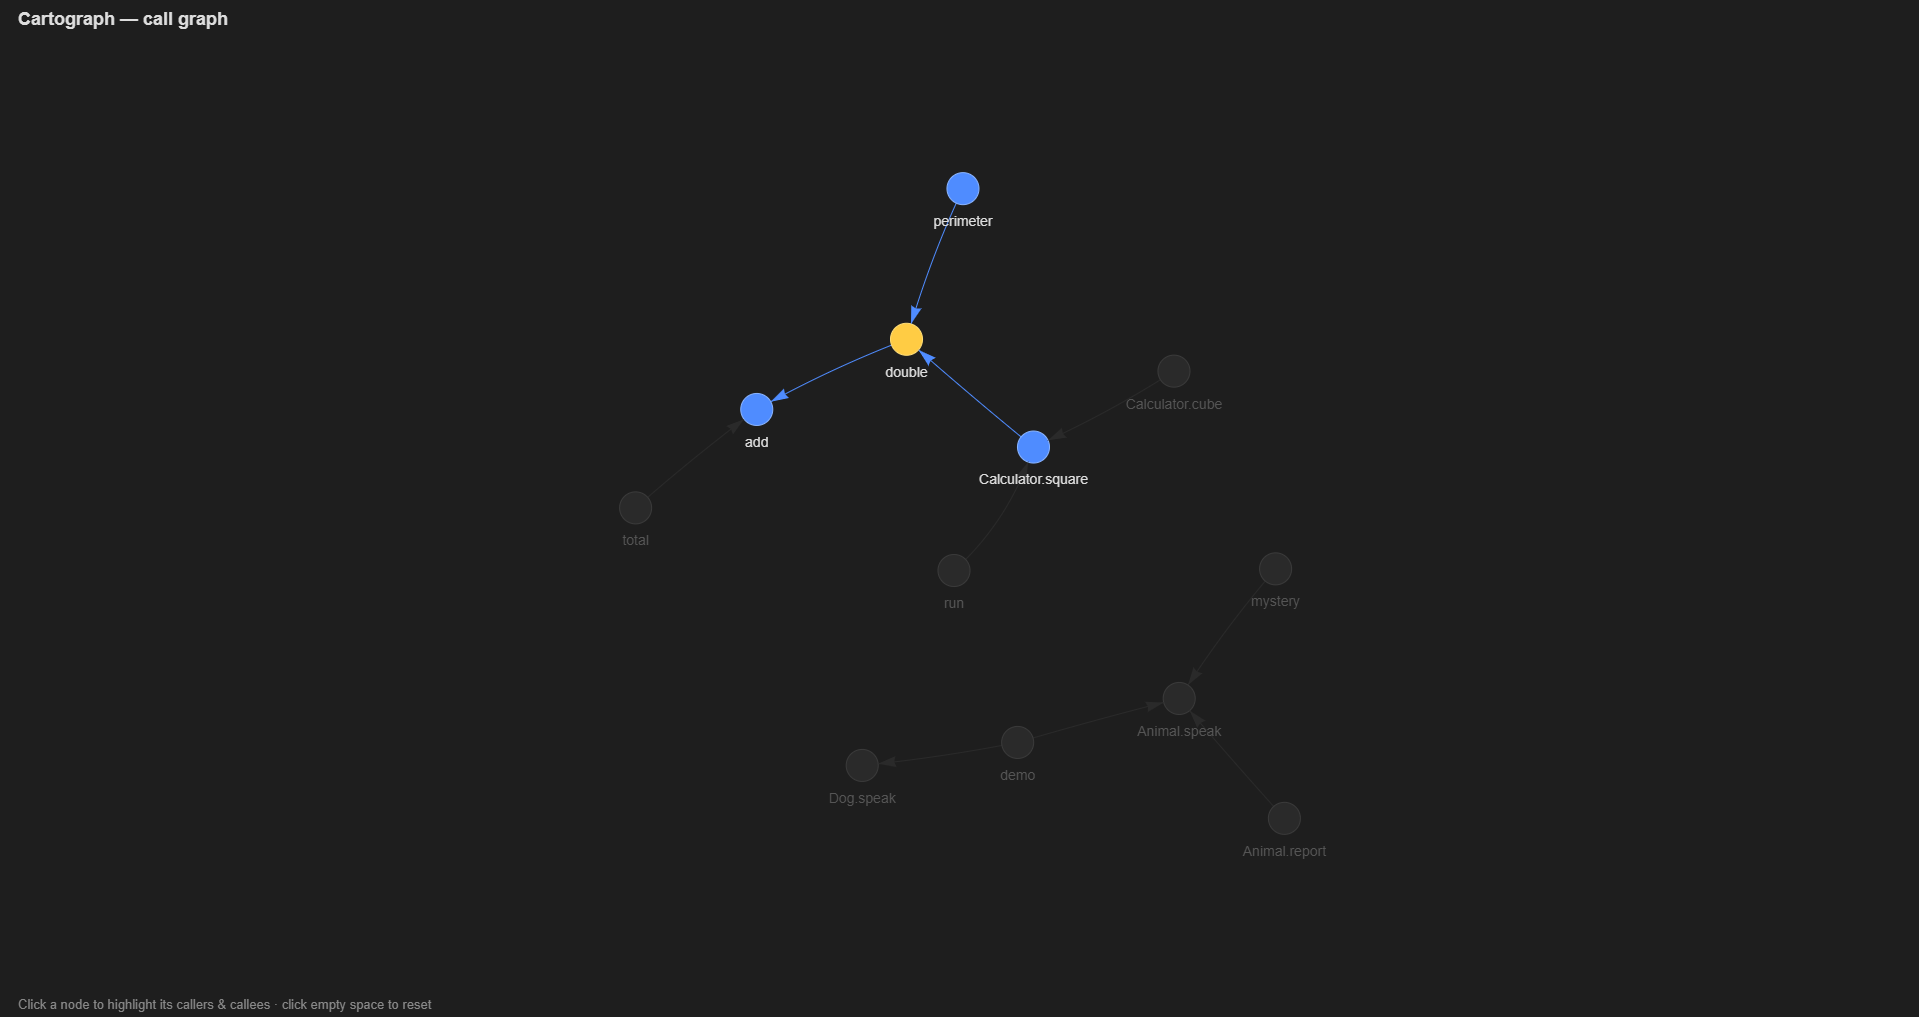
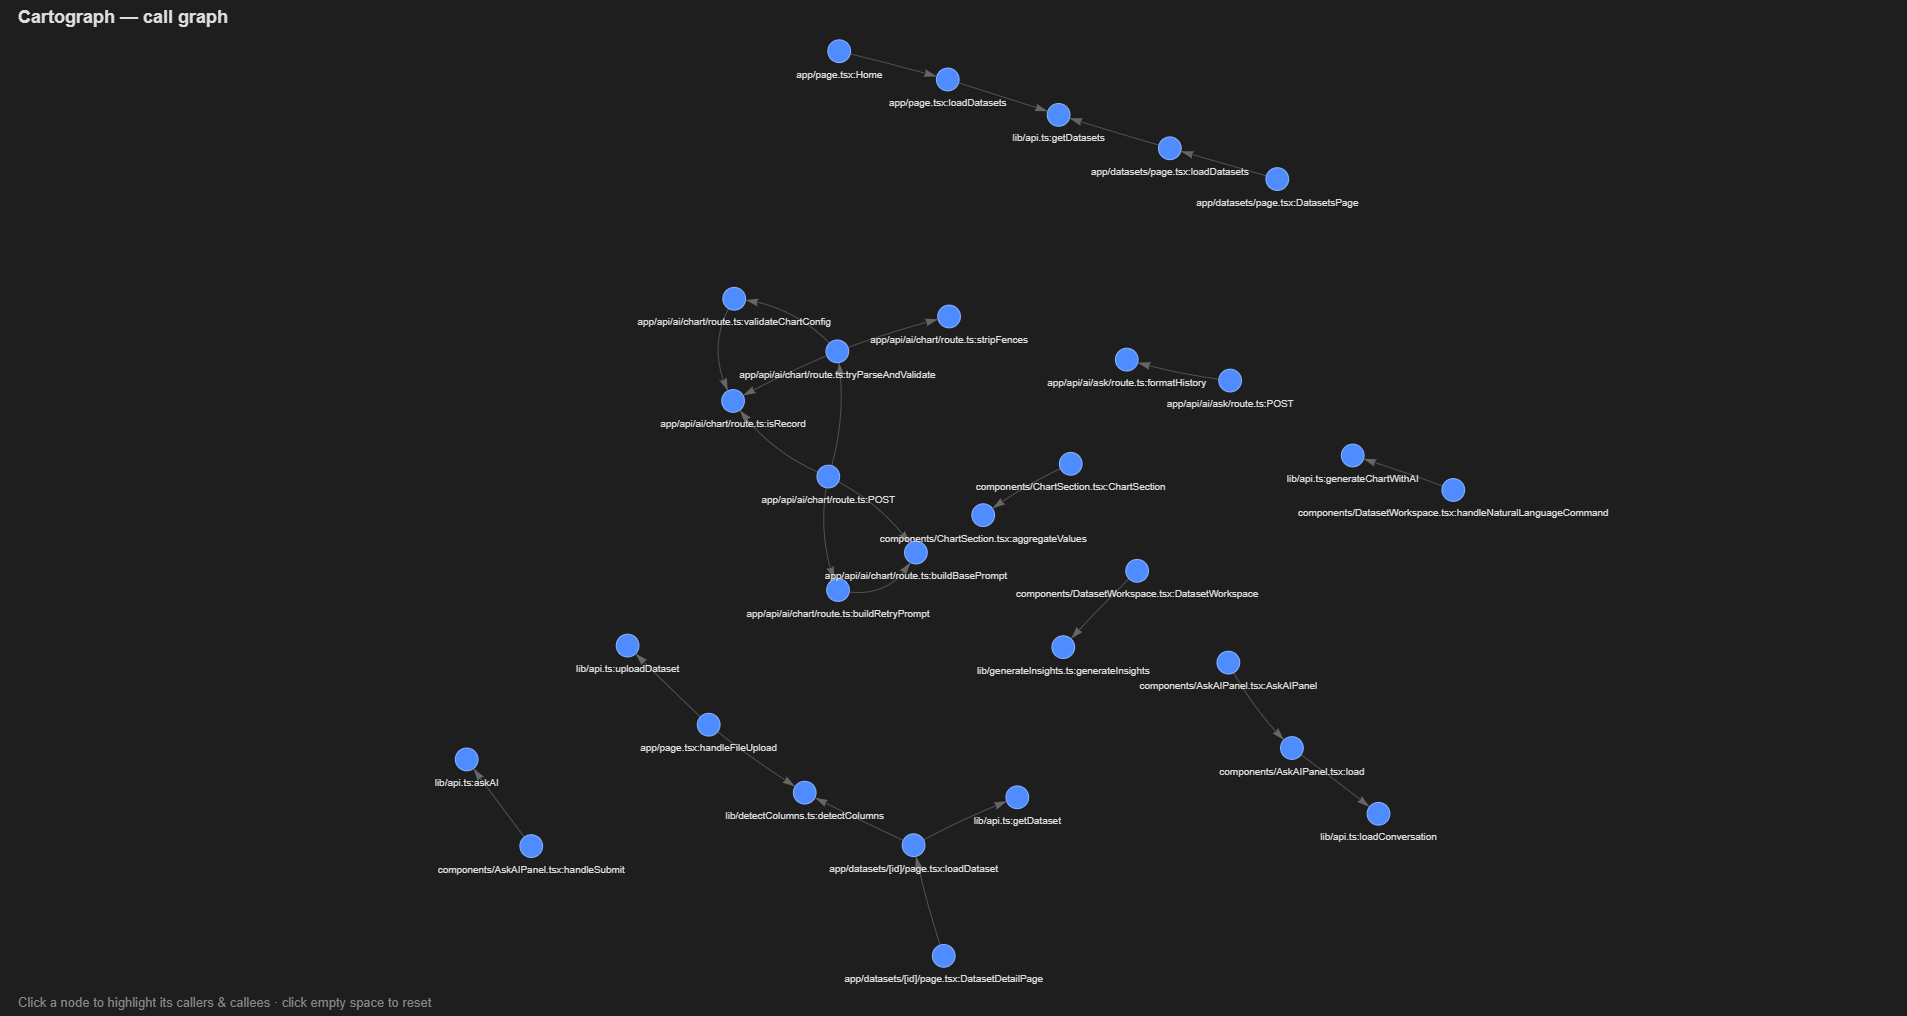
Docs: use a real-app call graph as the hero screenshot
Replace the sample-fixture screenshot with Cartograph's graph of a real Next.js
application (~30 functions across app/, components/, lib/), and ship the matching
viz/data.js so the interactive visualization opens to the same graph. Clarify the
README caption.

diff --git a/viz/data.js b/viz/data.js
@@ -1,126 +1,230 @@
 window.GRAPH = {
   "nodes": [
     {
-      "id": "sample/animals.ts:Animal.report",
-      "label": "sample/animals.ts:Animal.report"
+      "id": "app/page.tsx:loadDatasets",
+      "label": "app/page.tsx:loadDatasets"
     },
     {
-      "id": "sample/animals.ts:demo",
-      "label": "sample/animals.ts:demo"
+      "id": "app/page.tsx:Home",
+      "label": "app/page.tsx:Home"
     },
     {
-      "id": "sample/animals.ts:mystery",
-      "label": "sample/animals.ts:mystery"
+      "id": "app/page.tsx:handleFileUpload",
+      "label": "app/page.tsx:handleFileUpload"
     },
     {
-      "id": "sample/geometry.ts:perimeter",
-      "label": "sample/geometry.ts:perimeter"
+      "id": "components/AskAIPanel.tsx:load",
+      "label": "components/AskAIPanel.tsx:load"
     },
     {
-      "id": "sample/geometry.ts:total",
-      "label": "sample/geometry.ts:total"
+      "id": "components/AskAIPanel.tsx:AskAIPanel",
+      "label": "components/AskAIPanel.tsx:AskAIPanel"
     },
     {
-      "id": "sample/handlers.ts:accumulate",
-      "label": "sample/handlers.ts:accumulate"
+      "id": "components/AskAIPanel.tsx:handleSubmit",
+      "label": "components/AskAIPanel.tsx:handleSubmit"
     },
     {
-      "id": "sample/handlers.ts:summarize",
-      "label": "sample/handlers.ts:summarize"
+      "id": "components/ChartSection.tsx:ChartSection",
+      "label": "components/ChartSection.tsx:ChartSection"
     },
     {
-      "id": "sample/handlers.ts:report",
-      "label": "sample/handlers.ts:report"
+      "id": "components/DatasetWorkspace.tsx:DatasetWorkspace",
+      "label": "components/DatasetWorkspace.tsx:DatasetWorkspace"
     },
     {
-      "id": "sample/math.ts:double",
-      "label": "sample/math.ts:double"
+      "id": "components/DatasetWorkspace.tsx:handleNaturalLanguageCommand",
+      "label": "components/DatasetWorkspace.tsx:handleNaturalLanguageCommand"
     },
     {
-      "id": "sample/math.ts:Calculator.square",
-      "label": "sample/math.ts:Calculator.square"
+      "id": "app/datasets/page.tsx:loadDatasets",
+      "label": "app/datasets/page.tsx:loadDatasets"
     },
     {
-      "id": "sample/math.ts:Calculator.cube",
-      "label": "sample/math.ts:Calculator.cube"
+      "id": "app/datasets/page.tsx:DatasetsPage",
+      "label": "app/datasets/page.tsx:DatasetsPage"
     },
     {
-      "id": "sample/math.ts:run",
-      "label": "sample/math.ts:run"
+      "id": "app/datasets/[id]/page.tsx:loadDataset",
+      "label": "app/datasets/[id]/page.tsx:loadDataset"
     },
     {
-      "id": "sample/animals.ts:Animal.speak",
-      "label": "sample/animals.ts:Animal.speak"
+      "id": "app/datasets/[id]/page.tsx:DatasetDetailPage",
+      "label": "app/datasets/[id]/page.tsx:DatasetDetailPage"
     },
     {
-      "id": "sample/animals.ts:Dog.speak",
-      "label": "sample/animals.ts:Dog.speak"
+      "id": "app/api/ai/ask/route.ts:POST",
+      "label": "app/api/ai/ask/route.ts:POST"
     },
     {
-      "id": "sample/math.ts:add",
-      "label": "sample/math.ts:add"
+      "id": "app/api/ai/chart/route.ts:validateChartConfig",
+      "label": "app/api/ai/chart/route.ts:validateChartConfig"
     },
     {
-      "id": "sample/handlers.ts:format",
-      "label": "sample/handlers.ts:format"
+      "id": "app/api/ai/chart/route.ts:tryParseAndValidate",
+      "label": "app/api/ai/chart/route.ts:tryParseAndValidate"
+    },
+    {
+      "id": "app/api/ai/chart/route.ts:buildRetryPrompt",
+      "label": "app/api/ai/chart/route.ts:buildRetryPrompt"
+    },
+    {
+      "id": "app/api/ai/chart/route.ts:POST",
+      "label": "app/api/ai/chart/route.ts:POST"
+    },
+    {
+      "id": "lib/api.ts:getDatasets",
+      "label": "lib/api.ts:getDatasets"
+    },
+    {
+      "id": "lib/detectColumns.ts:detectColumns",
+      "label": "lib/detectColumns.ts:detectColumns"
+    },
+    {
+      "id": "lib/api.ts:uploadDataset",
+      "label": "lib/api.ts:uploadDataset"
+    },
+    {
+      "id": "lib/api.ts:loadConversation",
+      "label": "lib/api.ts:loadConversation"
+    },
+    {
+      "id": "lib/api.ts:askAI",
+      "label": "lib/api.ts:askAI"
+    },
+    {
+      "id": "components/ChartSection.tsx:aggregateValues",
+      "label": "components/ChartSection.tsx:aggregateValues"
+    },
+    {
+      "id": "lib/generateInsights.ts:generateInsights",
+      "label": "lib/generateInsights.ts:generateInsights"
+    },
+    {
+      "id": "lib/api.ts:generateChartWithAI",
+      "label": "lib/api.ts:generateChartWithAI"
+    },
+    {
+      "id": "lib/api.ts:getDataset",
+      "label": "lib/api.ts:getDataset"
+    },
+    {
+      "id": "app/api/ai/ask/route.ts:formatHistory",
+      "label": "app/api/ai/ask/route.ts:formatHistory"
+    },
+    {
+      "id": "app/api/ai/chart/route.ts:isRecord",
+      "label": "app/api/ai/chart/route.ts:isRecord"
+    },
+    {
+      "id": "app/api/ai/chart/route.ts:stripFences",
+      "label": "app/api/ai/chart/route.ts:stripFences"
+    },
+    {
+      "id": "app/api/ai/chart/route.ts:buildBasePrompt",
+      "label": "app/api/ai/chart/route.ts:buildBasePrompt"
     }
   ],
   "edges": [
     {
-      "from": "sample/animals.ts:Animal.report",
-      "to": "sample/animals.ts:Animal.speak"
+      "from": "app/page.tsx:loadDatasets",
+      "to": "lib/api.ts:getDatasets"
     },
     {
-      "from": "sample/animals.ts:demo",
-      "to": "sample/animals.ts:Dog.speak"
+      "from": "app/page.tsx:Home",
+      "to": "app/page.tsx:loadDatasets"
     },
     {
-      "from": "sample/animals.ts:demo",
-      "to": "sample/animals.ts:Animal.speak"
+      "from": "app/page.tsx:handleFileUpload",
+      "to": "lib/detectColumns.ts:detectColumns"
     },
     {
-      "from": "sample/animals.ts:mystery",
-      "to": "sample/animals.ts:Animal.speak"
+      "from": "app/page.tsx:handleFileUpload",
+      "to": "lib/api.ts:uploadDataset"
     },
     {
-      "from": "sample/geometry.ts:perimeter",
-      "to": "sample/math.ts:double"
+      "from": "components/AskAIPanel.tsx:load",
+      "to": "lib/api.ts:loadConversation"
     },
     {
-      "from": "sample/geometry.ts:total",
-      "to": "sample/math.ts:add"
+      "from": "components/AskAIPanel.tsx:AskAIPanel",
+      "to": "components/AskAIPanel.tsx:load"
     },
     {
-      "from": "sample/handlers.ts:accumulate",
-      "to": "sample/math.ts:add"
+      "from": "components/AskAIPanel.tsx:handleSubmit",
+      "to": "lib/api.ts:askAI"
     },
     {
-      "from": "sample/handlers.ts:summarize",
-      "to": "sample/handlers.ts:accumulate"
+      "from": "components/ChartSection.tsx:ChartSection",
+      "to": "components/ChartSection.tsx:aggregateValues"
     },
     {
-      "from": "sample/handlers.ts:report",
-      "to": "sample/handlers.ts:format"
+      "from": "components/DatasetWorkspace.tsx:DatasetWorkspace",
+      "to": "lib/generateInsights.ts:generateInsights"
     },
     {
-      "from": "sample/handlers.ts:report",
-      "to": "sample/handlers.ts:summarize"
+      "from": "components/DatasetWorkspace.tsx:handleNaturalLanguageCommand",
+      "to": "lib/api.ts:generateChartWithAI"
     },
     {
-      "from": "sample/math.ts:double",
-      "to": "sample/math.ts:add"
+      "from": "app/datasets/page.tsx:loadDatasets",
+      "to": "lib/api.ts:getDatasets"
     },
     {
-      "from": "sample/math.ts:Calculator.square",
-      "to": "sample/math.ts:double"
+      "from": "app/datasets/page.tsx:DatasetsPage",
+      "to": "app/datasets/page.tsx:loadDatasets"
     },
     {
-      "from": "sample/math.ts:Calculator.cube",
-      "to": "sample/math.ts:Calculator.square"
+      "from": "app/datasets/[id]/page.tsx:loadDataset",
+      "to": "lib/api.ts:getDataset"
     },
     {
-      "from": "sample/math.ts:run",
-      "to": "sample/math.ts:Calculator.square"
+      "from": "app/datasets/[id]/page.tsx:loadDataset",
+      "to": "lib/detectColumns.ts:detectColumns"
+    },
+    {
+      "from": "app/datasets/[id]/page.tsx:DatasetDetailPage",
+      "to": "app/datasets/[id]/page.tsx:loadDataset"
+    },
+    {
+      "from": "app/api/ai/ask/route.ts:POST",
+      "to": "app/api/ai/ask/route.ts:formatHistory"
+    },
+    {
+      "from": "app/api/ai/chart/route.ts:validateChartConfig",
+      "to": "app/api/ai/chart/route.ts:isRecord"
+    },
+    {
+      "from": "app/api/ai/chart/route.ts:tryParseAndValidate",
+      "to": "app/api/ai/chart/route.ts:stripFences"
+    },
+    {
+      "from": "app/api/ai/chart/route.ts:tryParseAndValidate",
+      "to": "app/api/ai/chart/route.ts:isRecord"
+    },
+    {
+      "from": "app/api/ai/chart/route.ts:tryParseAndValidate",
+      "to": "app/api/ai/chart/route.ts:validateChartConfig"
+    },
+    {
+      "from": "app/api/ai/chart/route.ts:buildRetryPrompt",
+      "to": "app/api/ai/chart/route.ts:buildBasePrompt"
+    },
+    {
+      "from": "app/api/ai/chart/route.ts:POST",
+      "to": "app/api/ai/chart/route.ts:buildBasePrompt"
+    },
+    {
+      "from": "app/api/ai/chart/route.ts:POST",
+      "to": "app/api/ai/chart/route.ts:tryParseAndValidate"
+    },
+    {
+      "from": "app/api/ai/chart/route.ts:POST",
+      "to": "app/api/ai/chart/route.ts:buildRetryPrompt"
+    },
+    {
+      "from": "app/api/ai/chart/route.ts:POST",
+      "to": "app/api/ai/chart/route.ts:isRecord"
     }
   ]
 };

diff --git a/README.md b/README.md
@@ -2,7 +2,9 @@
 
 **A static-analysis tool that builds a type-resolved call graph of a TypeScript codebase — so you can ask structural questions about code instead of reading all of it.**
 
-![Cartograph call graph](docs/screenshot.png)
+![Cartograph's call graph of a real Next.js app](docs/screenshot.png)
+
+*Above: Cartograph's interactive call graph of a real Next.js application (~30 functions across `app/`, `components/`, and `lib/`). Click any node to highlight its callers and callees.*
 
 ## What it does
 